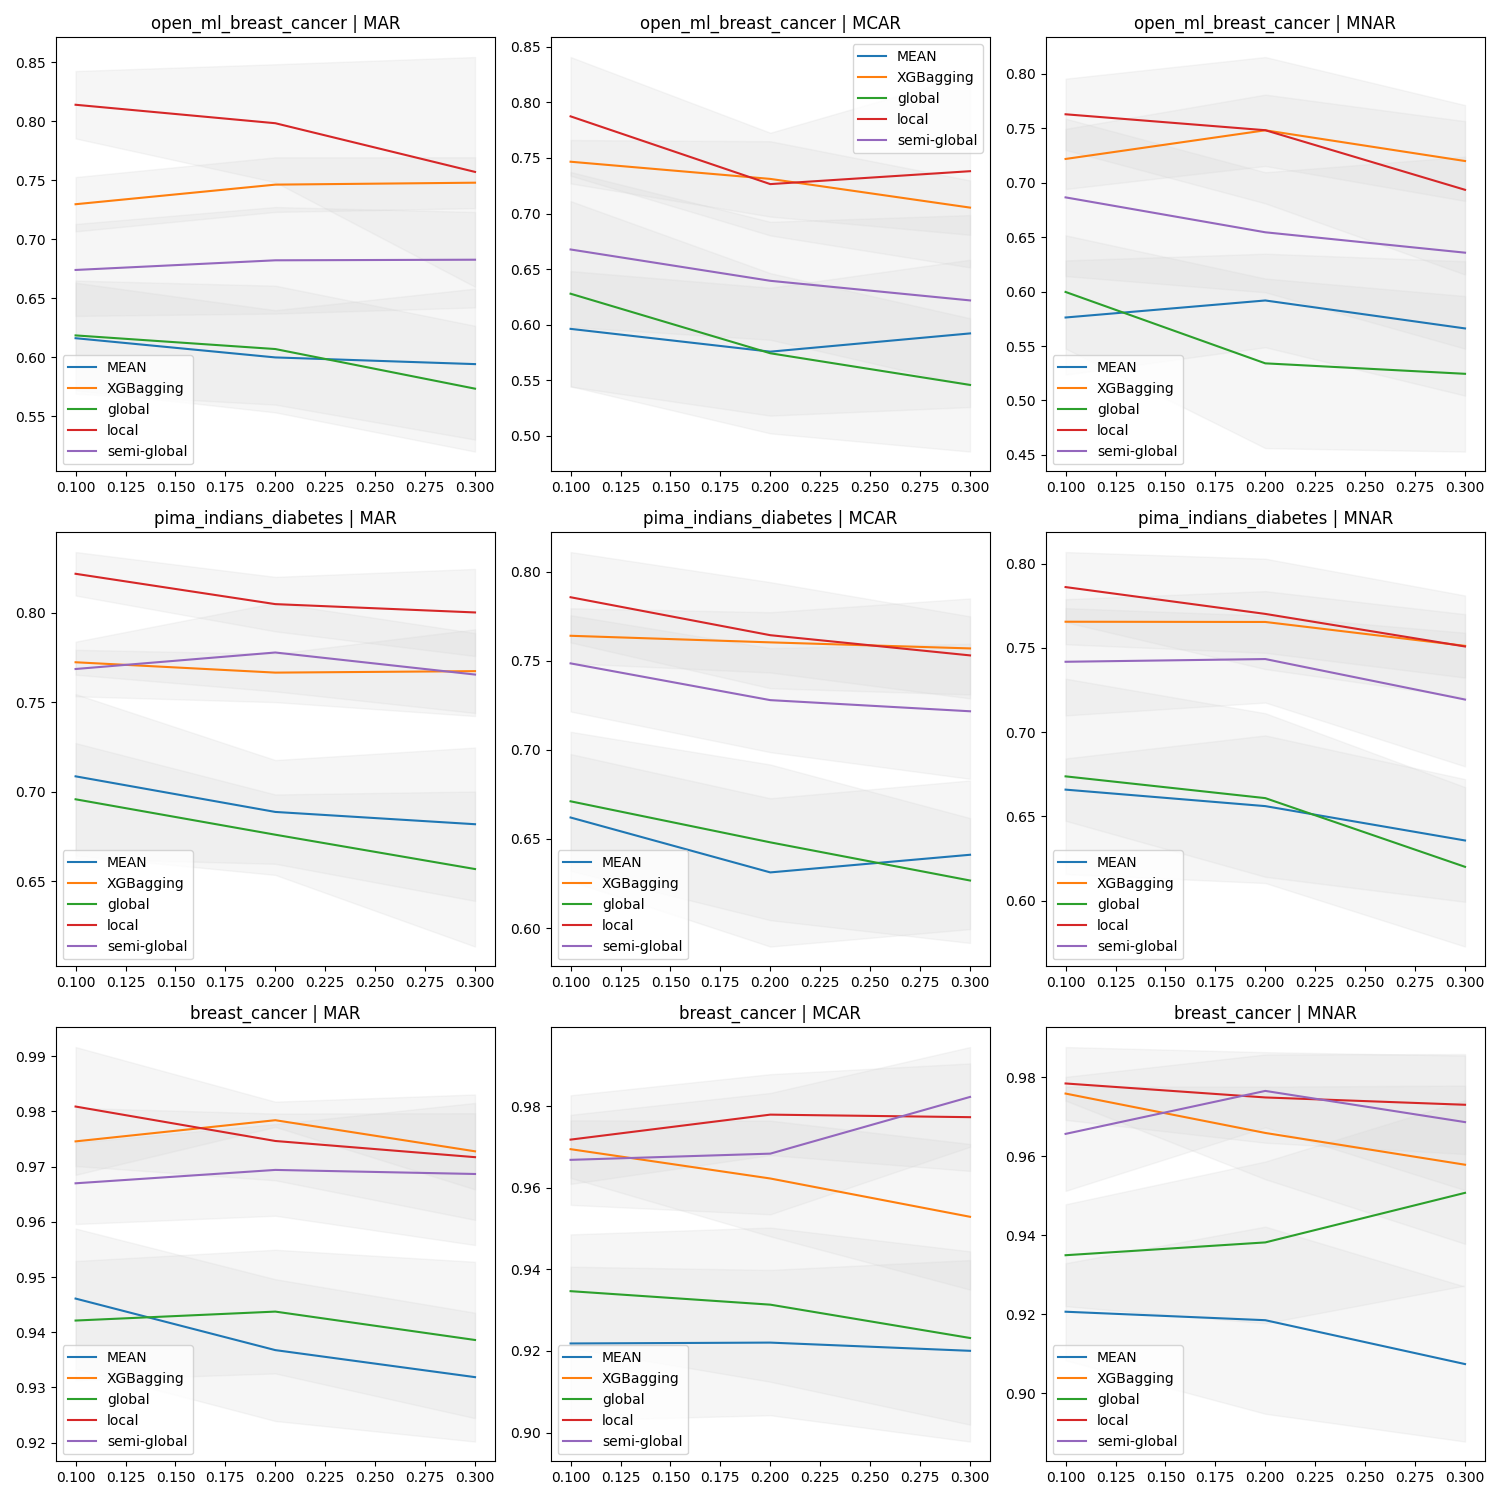
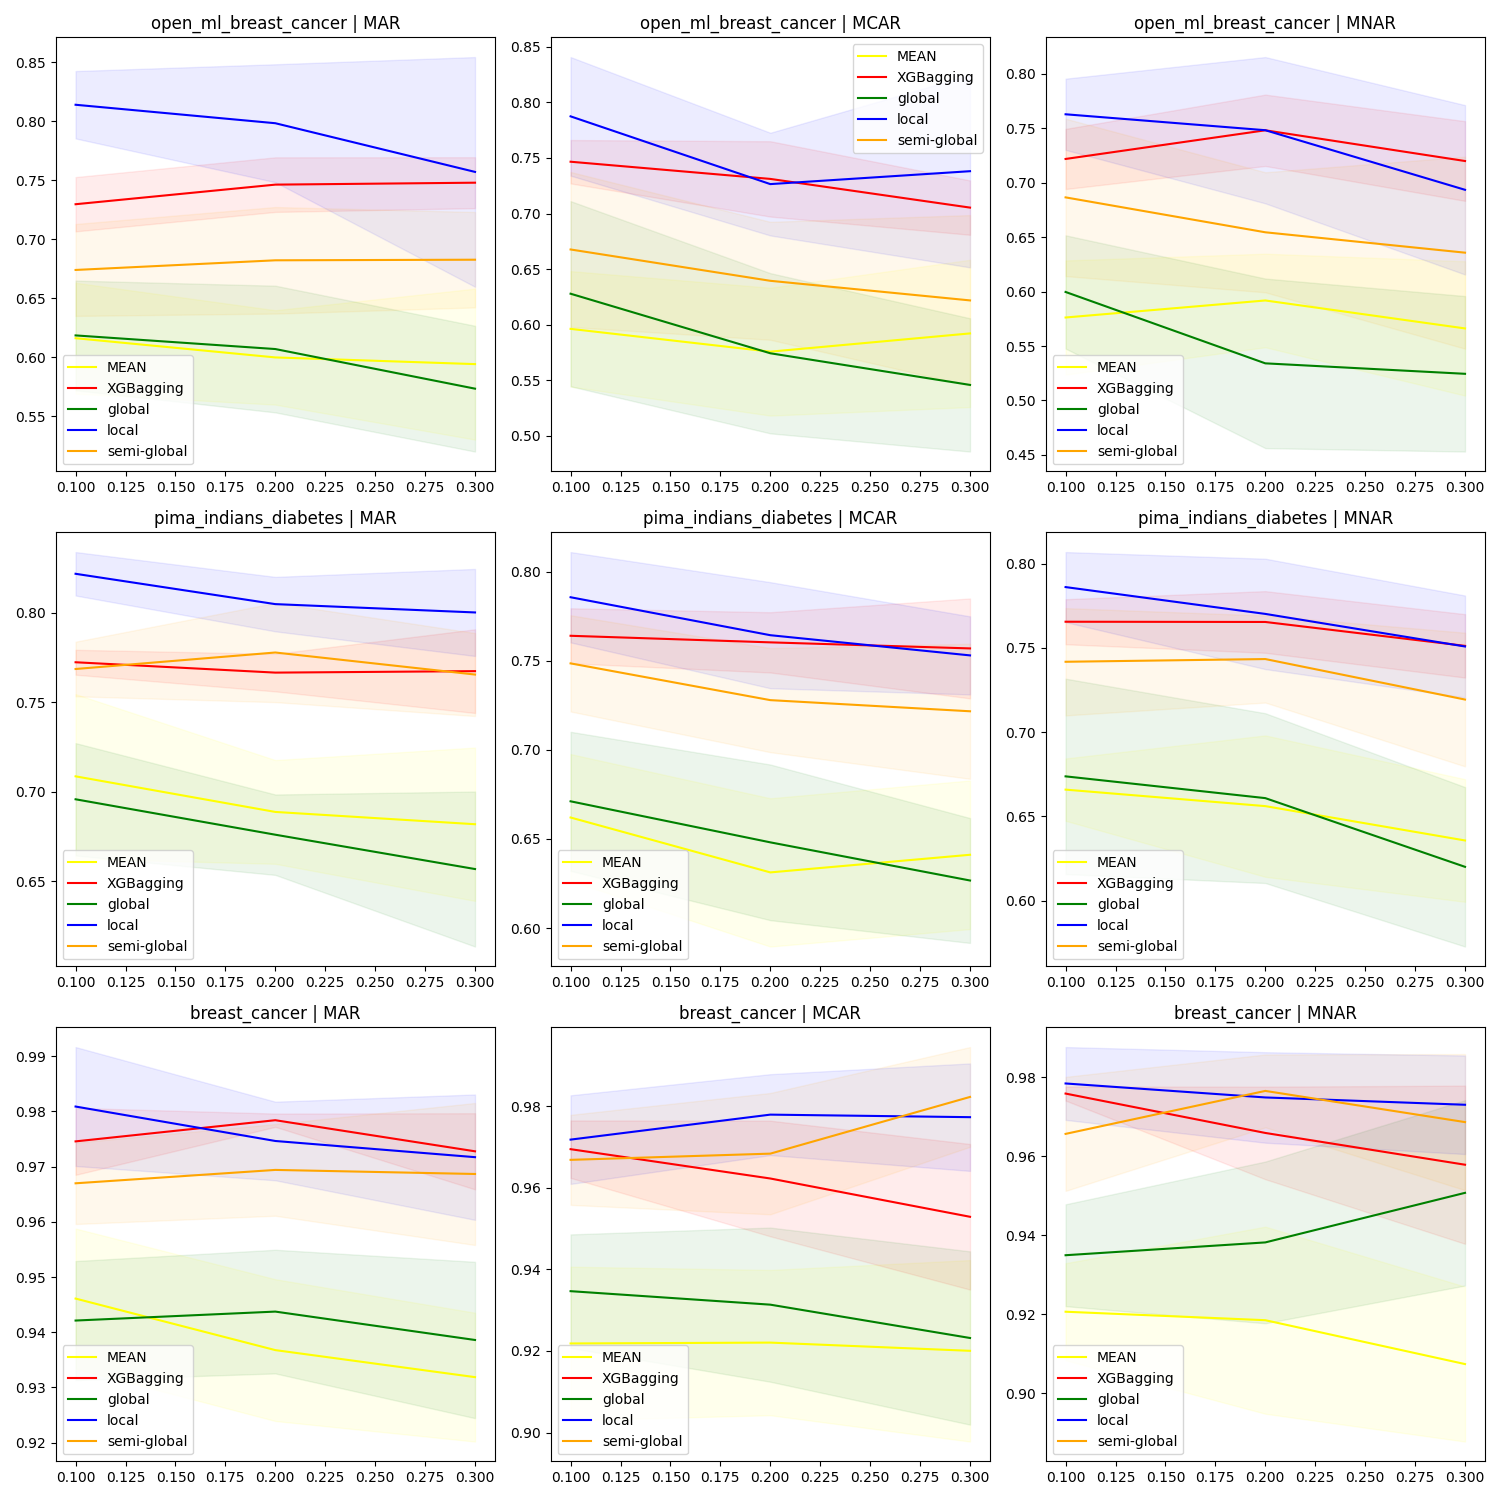
split the graph to colors

diff --git a/ResultsAnalyze/anaylzer.py b/ResultsAnalyze/anaylzer.py
@@ -2,6 +2,8 @@ import pandas as pd
 from enum import Enum
 from matplotlib import pyplot as plt
 
+from common.imputeMethods import ImputeMethod
+
 
 class Imputes(Enum):
     LOCAL = 'local'
@@ -43,6 +45,14 @@ fig, axes = plt.subplots(nrows=3, ncols=3, figsize=(15, 15))
 
 axs = axes.flatten()
 axs_index = 0
+
+colors_to_impute = {
+    ImputeMethod.LOCAL.value: 'blue',
+    ImputeMethod.SEMI_GLOBAL.value: 'orange',
+    ImputeMethod.GLOBAL.value: 'green',
+    ImputeMethod.BASELINE.value: 'red',
+    ImputeMethod.MEAN.value: 'yellow',
+}
 # Plot the mean AUC for each dataset
 for line, dataset in enumerate(Datasets):
     dataset_mean_auc = mean_auc.loc[dataset.value]
@@ -54,15 +64,17 @@ for line, dataset in enumerate(Datasets):
         std_per_missingness = dataset_mecha_std_auc.unstack(level='Impute')
 
         for column in auc_per_missingness.columns:
-            axs[axs_index].plot(auc_per_missingness[column].keys(), auc_per_missingness[column].values, label=column)
+            axs[axs_index].plot(auc_per_missingness[column].keys(), auc_per_missingness[column].values, label=column,
+                                color=colors_to_impute[column])
             axs[axs_index].fill_between(auc_per_missingness[column].keys(),
-                                auc_per_missingness[column].values + std_per_missingness[column].values,
-                                auc_per_missingness[column].values - std_per_missingness[column].values, color='lightgray',
-                                alpha=0.2)
+                                        auc_per_missingness[column].values + std_per_missingness[column].values,
+                                        auc_per_missingness[column].values - std_per_missingness[column].values,
+                                        color=colors_to_impute[column],
+                                        alpha=0.075)
         # Set subplot title
         axs[axs_index].set_title(f"{dataset.value} | {mecha.value}")
         axs[axs_index].legend()
-        axs_index+=1
+        axs_index += 1
         # Adjust layout
 plt.tight_layout()
 

diff --git a/common/imputeMethods.py b/common/imputeMethods.py
@@ -6,3 +6,4 @@ class ImputeMethod(Enum):
     GLOBAL = 'global'
     LOCAL = 'local'
     BASELINE = 'XGBagging'
+    MEAN = 'MEAN'
